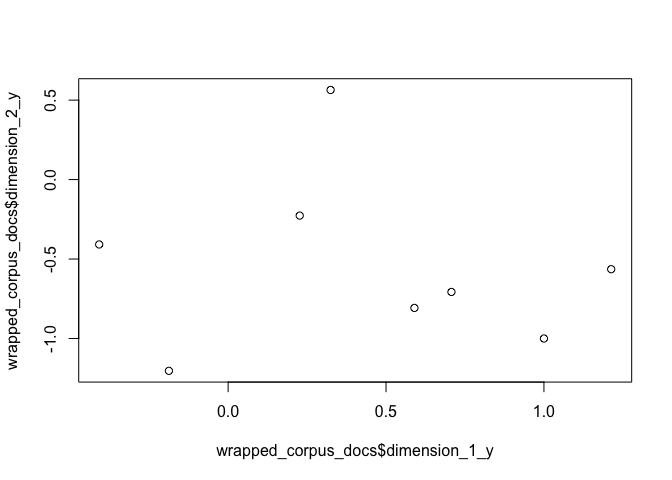
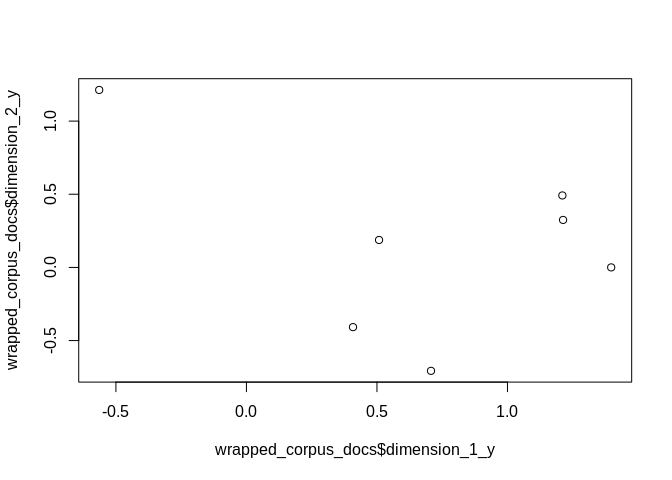
word2vec added

diff --git a/README.md b/README.md
@@ -1,29 +1,21 @@
 
 <!-- README.md is generated from README.Rmd. Please edit that file -->
-
 <!-- badges: start -->
+[![Lifecycle: experimental](https://img.shields.io/badge/lifecycle-experimental-orange.svg)](https://www.tidyverse.org/lifecycle/#experimental) [![Travis build status](https://travis-ci.org/news-r/gensimr.svg?branch=master)](https://travis-ci.org/news-r/gensimr) <!-- badges: end -->
 
-[![Lifecycle:
-experimental](https://img.shields.io/badge/lifecycle-experimental-orange.svg)](https://www.tidyverse.org/lifecycle/#experimental)
-[![Travis build
-status](https://travis-ci.org/news-r/gensimr.svg?branch=master)](https://travis-ci.org/news-r/gensimr)
-<!-- badges: end -->
+![gensim official logo](https://radimrehurek.com/gensim/_static/images/gensim.png)
 
-![gensim official
-logo](https://radimrehurek.com/gensim/_static/images/gensim.png)
+Brings [gensim](https://radimrehurek.com/gensim) to R: efficient large-scale topic modeling.
 
-Brings [gensim](https://radimrehurek.com/gensim) to R: efficient
-large-scale topic modeling.
+⚠ Notice the "Experimental" lifecycle badge: things won't work, stuff will break.
 
-⚠ Notice the “Experimental” lifecycle badge: things won’t work, stuff
-will break.
+-   [Installation](#installation)
+-   [Preprocessing](#preprocessing)
+-   [Topic Modeling](#topic-modeling)
+-   [Document Similarity](#document-similarity)
 
-  - [Installation](#installation)
-  - [Preprocessing](#preprocessing)
-  - [Topic Modeling](#topic-modeling)
-  - [Document Similarity](#document-similarity)
-
-## Installation
+Installation
+------------
 
 Install the package.
 
@@ -34,12 +26,13 @@ remotes::install_github("news-r/gensimr")
 
 Install the python dependency.
 
+*Make sure you have a C compiler before installing Gensim, to use the optimized word2vec routines (70x speedup compared to plain NumPy implementation).*
+
 ``` r
 gensimr::install_gensim()
 ```
 
-Ideally one should use a virtual environment and pass it to
-`install_gensim`, only do this once.
+Ideally one should use a virtual environment and pass it to `install_gensim`, only do this once.
 
 ``` r
 # replace with path of your choice
@@ -52,11 +45,10 @@ reticulate::use_virtualenv(my_env) # force reticulate to use env
 gensimr::install_gensim(my_env) # install gensim in environment
 ```
 
-\#\# Preprocessing
+ Preprocessing
+--------------
 
-First we preprocess the corpus using example data, a tiny corpus of 9
-documents. Reproducing the tutorial on [corpora and vector
-spaces](https://radimrehurek.com/gensim/tut1.html).
+First we preprocess the corpus using example data, a tiny corpus of 9 documents. Reproducing the tutorial on [corpora and vector spaces](https://radimrehurek.com/gensim/tut1.html).
 
 ``` r
 library(gensimr)
@@ -87,10 +79,7 @@ dictionary <- corpora_dictionary(docs)
 
 A dictionary essentially assigns an integer to each term.
 
-`doc2bow` simply applies the method of the same name to every documents
-(see example below); it counts the number of occurrences of each
-distinct word, converts the word to its integer word id and returns the
-result as a sparse vector.
+`doc2bow` simply applies the method of the same name to every documents (see example below); it counts the number of occurrences of each distinct word, converts the word to its integer word id and returns the result as a sparse vector.
 
 ``` r
 # native method to a single document
@@ -101,21 +90,16 @@ dictionary$doc2bow(docs[[1]])
 corpus_bow <- doc2bow(dictionary, docs)
 ```
 
-Then serialise to matrix market format, the function returns the path to
-the file (this is saved on disk for efficiency), if no path is passed
-then a temp file is created. Here we set `auto_delete` to `FALSE`
-otherwise the corpus is deleted after first use. Note this means you
-should manually delete it with `delete_mmcorpus`.
+Then serialise to matrix market format, the function returns the path to the file (this is saved on disk for efficiency), if no path is passed then a temp file is created. Here we set `auto_delete` to `FALSE` otherwise the corpus is deleted after first use. Note this means you should manually delete it with `delete_mmcorpus`.
 
 ``` r
 (corpus_mm <- serialize_mmcorpus(corpus_bow, auto_delete = FALSE))
-#> ℹ Path: /var/folders/n9/ys9t1h091jq80g4hww24v8g0n7v578/T//RtmpAzWCLu/file2d126ad7004.mm 
+#> ℹ Path: /tmp/RtmpOBzKDG/file161678019b39.mm 
 #>  ✔ Temp file
 #>  ✖ Delete after use
 ```
 
-Then initialise a model, we’re going to use a Latent Similarity Indexing
-method later on (`model_lsi`) which requires td-idf.
+Then initialise a model, we're going to use a Latent Similarity Indexing method later on (`model_lsi`) which requires td-idf.
 
 ``` r
 tfidf <- model_tfidf(corpus_mm)
@@ -127,13 +111,10 @@ We can then use the model to transform our original corpus.
 corpus_transformed <- wrap(tfidf, corpus_bow)
 ```
 
-## Topic Modeling
+Topic Modeling
+--------------
 
-Finally, we can build models, the number of topics of `model_*`
-functions defautls to 2, which is too low for what we generally would do
-with gensimr but works for the low number of documents we have. Below we
-reproduce bits and bobs of the [topics and
-transformation](https://radimrehurek.com/gensim/tut2.html).
+Finally, we can build models, the number of topics of `model_*` functions defautls to 2, which is too low for what we generally would do with gensimr but works for the low number of documents we have. Below we reproduce bits and bobs of the [topics and transformation](https://radimrehurek.com/gensim/tut2.html).
 
 ### Latent Similarity Index
 
@@ -143,12 +124,10 @@ Note that we use the transformed corpus.
 lsi <- model_lsi(corpus_transformed, id2word = dictionary)
 #> ⚠ Low number of topics
 lsi$print_topics()
-#> [(0, '0.703*"trees" + 0.538*"graph" + 0.402*"minors" + 0.187*"survey" + 0.061*"system" + 0.060*"response" + 0.060*"time" + 0.058*"user" + 0.049*"computer" + 0.035*"interface"'), (1, '-0.460*"system" + -0.373*"user" + -0.332*"eps" + -0.328*"interface" + -0.320*"response" + -0.320*"time" + -0.293*"computer" + -0.280*"human" + -0.171*"survey" + 0.161*"trees"')]
+#> [(0, '0.703*"trees" + 0.538*"graph" + 0.402*"minors" + 0.187*"survey" + 0.061*"system" + 0.060*"time" + 0.060*"response" + 0.058*"user" + 0.049*"computer" + 0.035*"interface"'), (1, '0.460*"system" + 0.373*"user" + 0.332*"eps" + 0.328*"interface" + 0.320*"response" + 0.320*"time" + 0.293*"computer" + 0.280*"human" + 0.171*"survey" + -0.161*"trees"')]
 ```
 
-We can then wrap the model around the corpus to extract further
-information, below we extract how each document contribute to each
-dimension (topic).
+We can then wrap the model around the corpus to extract further information, below we extract how each document contribute to each dimension (topic).
 
 ``` r
 wrapped_corpus <- wrap(lsi, corpus_transformed)
@@ -156,15 +135,15 @@ wrapped_corpus <- wrap(lsi, corpus_transformed)
 #> # A tibble: 9 x 4
 #>   dimension_1_x dimension_1_y dimension_2_x dimension_2_y
 #>           <dbl>         <dbl>         <dbl>         <dbl>
-#> 1             0        0.0660             1       -0.520 
-#> 2             0        0.197              1       -0.761 
-#> 3             0        0.0899             1       -0.724 
-#> 4             0        0.0759             1       -0.632 
-#> 5             0        0.102              1       -0.574 
-#> 6             0        0.703              1        0.161 
-#> 7             0        0.877              1        0.168 
-#> 8             0        0.910              1        0.141 
-#> 9             0        0.617              1       -0.0539
+#> 1             0        0.0660             1        0.520 
+#> 2             0        0.197              1        0.761 
+#> 3             0        0.0899             1        0.724 
+#> 4             0        0.0759             1        0.632 
+#> 5             0        0.102              1        0.574 
+#> 6             0        0.703              1       -0.161 
+#> 7             0        0.877              1       -0.168 
+#> 8             0        0.910              1       -0.141 
+#> 9             0        0.617              1        0.0539
 plot(wrapped_corpus_docs$dimension_1_y, wrapped_corpus_docs$dimension_2_y)
 ```
 
@@ -206,10 +185,10 @@ hdp <- model_hdp(corpus_mm, id2word = dictionary)
 reticulate::py_to_r(hdp$show_topic(topic_id = 1L, topn = 5L))
 #> [[1]]
 #> [[1]][[1]]
-#> [1] "human"
+#> [1] "user"
 #> 
 #> [[1]][[2]]
-#> [1] 0.2874479
+#> [1] 0.1855613
 #> 
 #> 
 #> [[2]]
@@ -217,37 +196,37 @@ reticulate::py_to_r(hdp$show_topic(topic_id = 1L, topn = 5L))
 #> [1] "computer"
 #> 
 #> [[2]][[2]]
-#> [1] 0.145963
+#> [1] 0.1368809
 #> 
 #> 
 #> [[3]]
 #> [[3]][[1]]
-#> [1] "eps"
+#> [1] "interface"
 #> 
 #> [[3]][[2]]
-#> [1] 0.1404769
+#> [1] 0.1368497
 #> 
 #> 
 #> [[4]]
 #> [[4]][[1]]
-#> [1] "time"
+#> [1] "eps"
 #> 
 #> [[4]][[2]]
-#> [1] 0.08911537
+#> [1] 0.1296338
 #> 
 #> 
 #> [[5]]
 #> [[5]][[1]]
-#> [1] "user"
+#> [1] "human"
 #> 
 #> [[5]][[2]]
-#> [1] 0.08424527
+#> [1] 0.1180008
 ```
 
-## Document Similarity
+Document Similarity
+-------------------
 
-Reproducing [tutorial on
-similarity](https://radimrehurek.com/gensim/tut3.html#similarity-interface).
+Reproducing [tutorial on similarity](https://radimrehurek.com/gensim/tut3.html#similarity-interface).
 
 ``` r
 mm <- read_serialized_mmcorpus(corpus_mm)
@@ -285,7 +264,37 @@ Clean up, delete the corpus.
 delete_mmcorpus(corpus_mm)
 ```
 
-## Downloader
+### word2vec
+
+Word2vec works somewhat differently. The example below is a reproduction of the Kaggle [Gensim Word2Vec Tutorial](https://www.kaggle.com/pierremegret/gensim-word2vec-tutorial#Training-the-model).
+
+``` r
+# initialise
+word2vec <- model_word2vec(size = 100L, window = 5L, min_count = 1L)
+word2vec$build_vocab(unname(docs)) 
+#> None
+word2vec$train(unname(docs), total_examples = word2vec$corpus_count, epochs = 20L)
+#> (76, 580)
+word2vec$init_sims(replace = TRUE)
+#> None
+```
+
+Now we can explore the model.
+
+``` r
+word2vec$wv$most_similar(positive = c("interface"))
+#> [('survey', 0.24786889553070068), ('computer', 0.09400846064090729), ('human', 0.09143400937318802), ('response', 0.08985058218240738), ('graph', 0.06317250430583954), ('minors', 0.037351273000240326), ('time', -0.02597055211663246), ('system', -0.0897526741027832), ('trees', -0.17105823755264282), ('eps', -0.18963323533535004)]
+```
+
+We expect "trees" to be the odd one out, it is a term that was in a different topic (\#2) whereas other terms were in topics \#1.
+
+``` r
+word2vec$wv$doesnt_match(c("human", "interface", "trees"))
+#> trees
+```
+
+Downloader
+----------
 
 You can download external datasets to easily build models.
 
@@ -296,6 +305,7 @@ dataset <- "glove-twitter-25"
 downloader_info(dataset) %>% 
   reticulate::py_to_r() %>% 
   .[["description"]]
+#> [1] "Pre-trained vectors based on 2B tweets, 27B tokens, 1.2M vocab, uncased (https://nlp.stanford.edu/projects/glove/)."
 
 # download the model
 model <- downloader_load(dataset)
@@ -303,4 +313,82 @@ model <- downloader_load(dataset)
 # find words most similar to "cat"
 model$most_similar("cat") %>% 
   reticulate::py_to_r()
+#> [[1]]
+#> [[1]][[1]]
+#> [1] "dog"
+#> 
+#> [[1]][[2]]
+#> [1] 0.9590821
+#> 
+#> 
+#> [[2]]
+#> [[2]][[1]]
+#> [1] "monkey"
+#> 
+#> [[2]][[2]]
+#> [1] 0.9203579
+#> 
+#> 
+#> [[3]]
+#> [[3]][[1]]
+#> [1] "bear"
+#> 
+#> [[3]][[2]]
+#> [1] 0.9143137
+#> 
+#> 
+#> [[4]]
+#> [[4]][[1]]
+#> [1] "pet"
+#> 
+#> [[4]][[2]]
+#> [1] 0.9108031
+#> 
+#> 
+#> [[5]]
+#> [[5]][[1]]
+#> [1] "girl"
+#> 
+#> [[5]][[2]]
+#> [1] 0.888063
+#> 
+#> 
+#> [[6]]
+#> [[6]][[1]]
+#> [1] "horse"
+#> 
+#> [[6]][[2]]
+#> [1] 0.8872728
+#> 
+#> 
+#> [[7]]
+#> [[7]][[1]]
+#> [1] "kitty"
+#> 
+#> [[7]][[2]]
+#> [1] 0.8870541
+#> 
+#> 
+#> [[8]]
+#> [[8]][[1]]
+#> [1] "puppy"
+#> 
+#> [[8]][[2]]
+#> [1] 0.8867698
+#> 
+#> 
+#> [[9]]
+#> [[9]][[1]]
+#> [1] "hot"
+#> 
+#> [[9]][[2]]
+#> [1] 0.8865256
+#> 
+#> 
+#> [[10]]
+#> [[10]][[1]]
+#> [1] "lady"
+#> 
+#> [[10]][[2]]
+#> [1] 0.8845519
 ```
